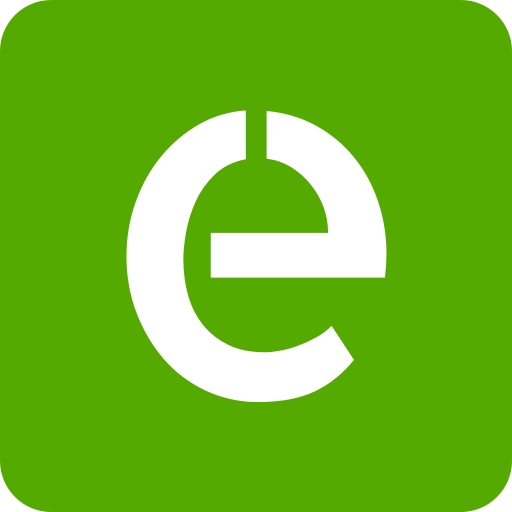
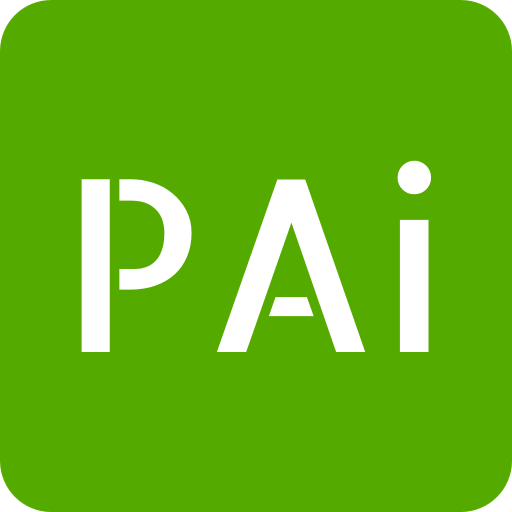
feat: update branding and enhance asset references in the project

Changed region(s): [[0.1562, 0.2188, 0.8438, 0.8125], [0.7812, 0.3125, 0.8438, 0.375]]

diff --git a/src/browser/index.html b/src/browser/index.html
@@ -2,15 +2,15 @@
 <html>
 <head>
   <meta charset="utf-8" />
-  <title>Markdown AI Editor</title>
+  <title>ProseAiC</title>
   <link rel="stylesheet" href="assets/app.css" />
-  <link rel="stylesheet" href="codicon.css" />
+  <link rel="stylesheet" href="assets/codicon.css" />
 </head>
 <body>
 
 <div class="app">
   <header class="app-header">
-    <img class="app-icon" src="assets/favicon-32x32.png" alt="Markdown AI Editor" width="18" height="18" />
+    <img class="app-icon" src="assets/favicon-32x32.png" alt="ProseAiC - AI Assisted Editor" width="18" height="18" />
   </header>
   <main class="app-main" id="app-main"></main>
   <footer class="app-footer"></footer>
